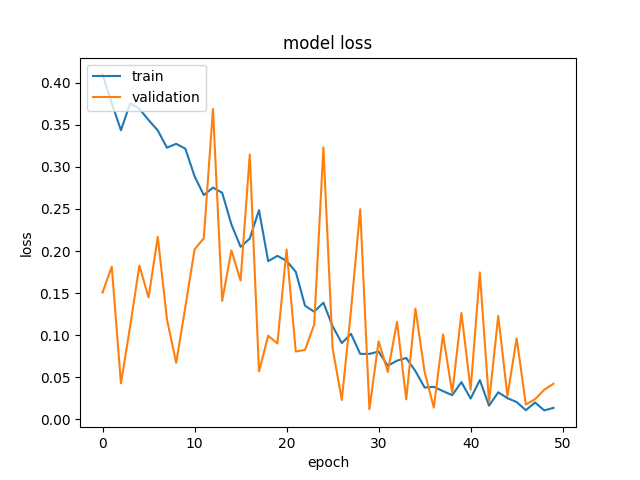
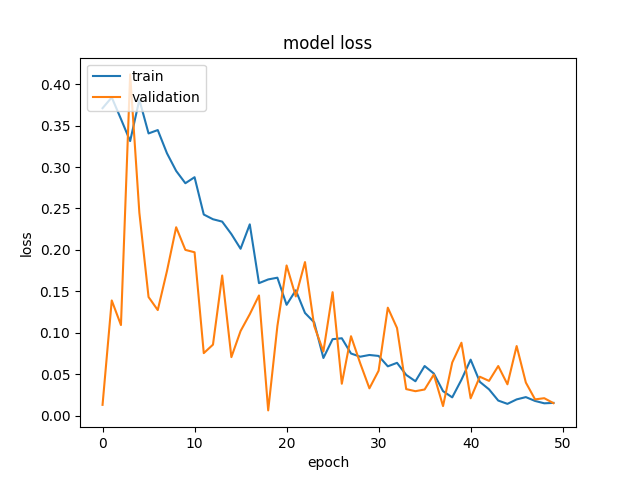
pre processing intensity normalized

diff --git a/lucia/impact_preprocessing.py b/lucia/impact_preprocessing.py
@@ -166,11 +166,11 @@ for label in labels:
 
                 #Stage 3: Intensity Normalization Set
                 #daniel não tem isto
-                #image_norm = cv2.normalize(rotated_img, None, 0, 255, cv2.NORM_MINMAX)
-                #img_data_list.append(image_norm)
+                image_norm = cv2.normalize(rotated_img, None, 0, 255, cv2.NORM_MINMAX)
+                img_data_list3.append(image_norm)
 
                 #Stage 4: Histogram Equalization Set
-                eq_face = hist_eq(rotated_img)
+                eq_face = hist_eq(image_norm)
                 img_data_list4.append(eq_face)
 
                 #Stage 5: Smoothed Set
@@ -188,6 +188,11 @@ img_data2 = np.array(img_data_list2)
 img_data2 = img_data2.astype('float32')
 img_data2 = img_data2/255
 img_data2.shape
+
+img_data3 = np.array(img_data_list3)
+img_data3 = img_data3.astype('float32')
+img_data3 = img_data3/255
+img_data3.shape
 
 img_data4 = np.array(img_data_list4)
 img_data4 = img_data4.astype('float32')
@@ -226,6 +231,7 @@ for i in range(num_of_samples):
 y = utils.to_categorical(labels_int, num_classes) 
 print(img_data1.shape)
 print(img_data2.shape)
+print(img_data3.shape)
 print(img_data4.shape)
 print(img_data5.shape)
 print(y.shape)
@@ -238,10 +244,11 @@ x_train1, x_val1, y_train1, y_val1 = train_test_split(x_train1, y_train1, test_s
 x_train2, x_test2, y_train2, y_test2 = train_test_split(img_data2, y, test_size=0.2,shuffle=True, random_state=2)
 x_train2, x_val2, y_train2, y_val2 = train_test_split(x_train2, y_train2, test_size=0.1, shuffle=True, random_state=2)
 
+x_train3, x_test3, y_train3, y_test3 = train_test_split(img_data3, y, test_size=0.2,shuffle=True, random_state=2)
+x_train3, x_val3, y_train3, y_val3 = train_test_split(x_train3, y_train3, test_size=0.1, shuffle=True, random_state=2)
 
 x_train4, x_test4, y_train4, y_test4 = train_test_split(img_data4, y, test_size=0.2,shuffle=True, random_state=2)
 x_train4, x_val4, y_train4, y_val4 = train_test_split(x_train4, y_train4, test_size=0.1, shuffle=True, random_state=2)
-
 
 x_train5, x_test5, y_train5, y_test5 = train_test_split(img_data5, y, test_size=0.2,shuffle=True, random_state=2)
 x_train5, x_val5, y_train5, y_val5 = train_test_split(x_train5, y_train5, test_size=0.1, shuffle=True, random_state=2)
@@ -301,6 +308,21 @@ score = model.evaluate(x_val2, y_val2)
 print("Validation loss stage 2:", score[0])
 print("Validation accuracy stage 2:", score[1])
 
+history3 = model.fit(x_train3, y_train3, batch_size=4, epochs=50, validation_data=(x_val3, y_val3))
+score = model.evaluate(x_test3, y_test3)
+print("Test loss stage 3:", score[0])
+print("Test accuracy stage 3:", score[1])
+
+#print train accuracy
+score = model.evaluate(x_train3, y_train3)
+print("Train loss stage 3:", score[0])
+print("Train accuracy stage 3:", score[1])
+
+#print validation accuracy
+score = model.evaluate(x_val3, y_val3)
+print("Validation loss stage 3:", score[0])
+print("Validation accuracy stage 3:", score[1])
+
 history4 = model.fit(x_train4, y_train4, batch_size=4, epochs=50, validation_data=(x_val4, y_val4))
 score = model.evaluate(x_test4, y_test4)
 print("Test loss stage 4:", score[0])
@@ -334,21 +356,23 @@ print("Validation accuracy stage 5:", score[1])
 #plot the accuracy for all stages in one plot 
 plt.plot(history1.history['accuracy'])
 plt.plot(history2.history['accuracy'])
+plt.plot(history3.history['accuracy'])
 plt.plot(history4.history['accuracy'])
 plt.plot(history5.history['accuracy'])
 plt.title('model accuracy')
 plt.ylabel('accuracy')
 plt.xlabel('epoch')
-plt.legend(['phase 0', 'phase 1', 'phase 2', 'phase 3'], loc='upper left')
+plt.legend(['phase 0', 'phase 1', 'phase 2', 'phase 3', 'phase 4'], loc='upper left')
 plt.show()
 
 #plot the loss for all stages in one plot
 plt.plot(history1.history['loss'])
 plt.plot(history2.history['loss'])
+plt.plot(history3.history['loss'])
 plt.plot(history4.history['loss'])
 plt.plot(history5.history['loss'])
 plt.title('model loss')
 plt.ylabel('loss')
 plt.xlabel('epoch')
-plt.legend(['phase 0', 'phase 1', 'phase 2', 'phase 3'], loc='upper left')
+plt.legend(['phase 0', 'phase 1', 'phase 2', 'phase 3', 'phase 4'], loc='upper left')
 plt.show()
